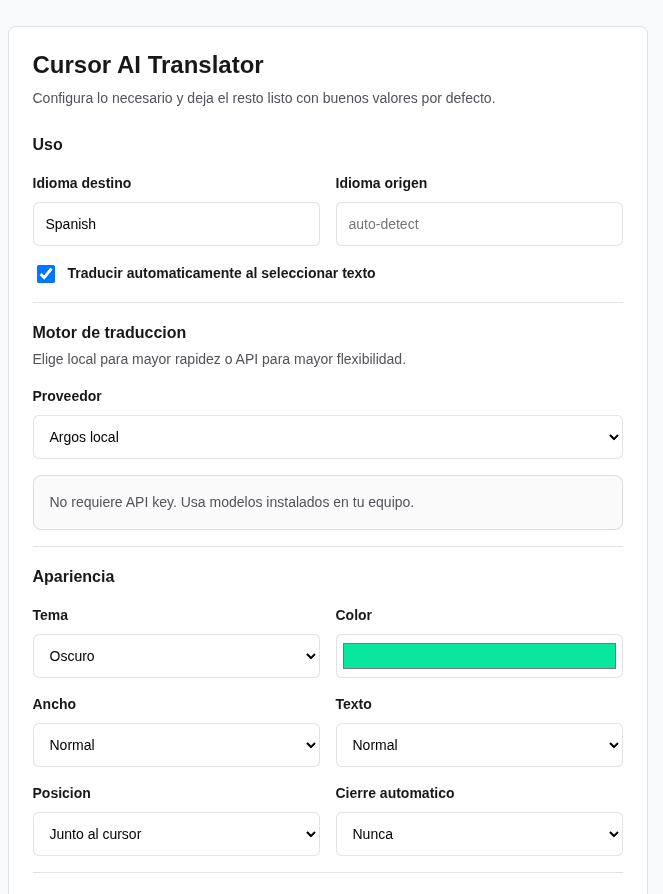
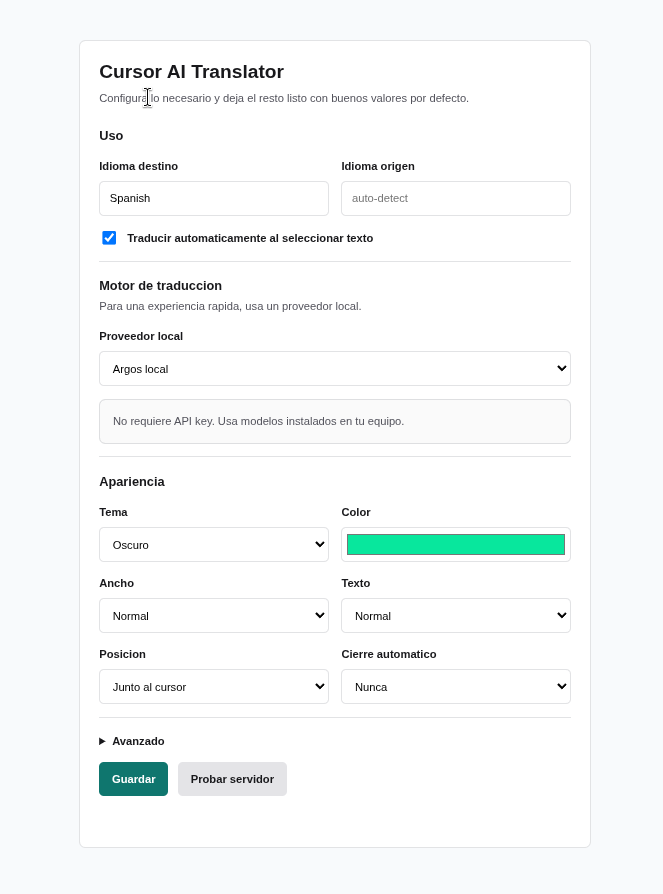
Refresh README screenshots

diff --git a/README.md b/README.md
@@ -19,8 +19,7 @@ cursor-ai-translator/
 ├── assets/
 │   ├── logo.png
 │   ├── preview1.png
-│   ├── preview2.png
-│   └── preview3.png
+│   └── preview2.png
 ├── extension/
 │   ├── background.js
 │   ├── content.css
@@ -54,10 +53,6 @@ cursor-ai-translator/
 ### Configuracion principal
 
 ![Settings overview](assets/preview2.png)
-
-### Guardado y controles visuales
-
-![Settings saved](assets/preview3.png)
 
 ## Arranque local
 